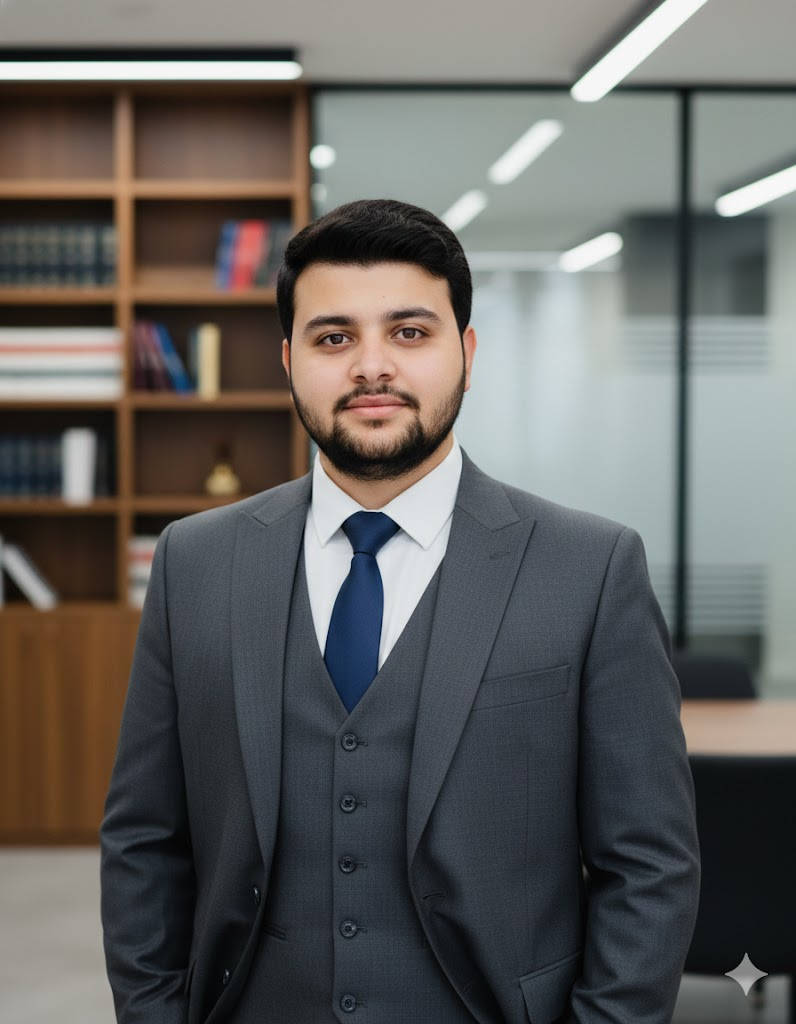
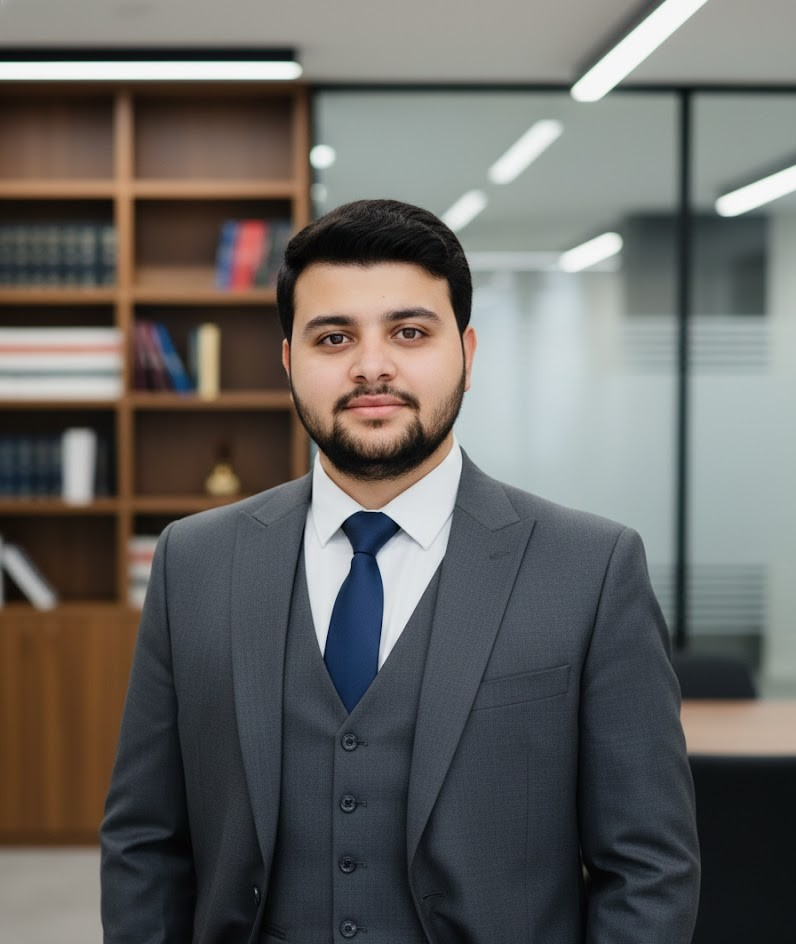
fix image paths and copy assets to public folder

diff --git a/src/components/ContactUs/page.jsx b/src/components/ContactUs/page.jsx
@@ -34,7 +34,7 @@ const ContactUs = () => {
               </div>
 
               {/* SERVICES OFFERED */}
-              <div className="bg-linear-to-br from-[#0b1c2d] via-[#12263a] to-[#1f3a5f] rounded-2xl p-6 shadow-lg">
+              <div className="bg-linear-to-br from-[#0b1c2d] via-[#12263a] to-[#1f3a5f] rounded-2xl p-6 shadow-lg hover:scale-105 hover:-translate-y-2 transition-all duration-300">
                 <h4 className="text-lg font-semibold text-yellow-400 mb-4">
                   Our Legal Services
                 </h4>
@@ -63,7 +63,7 @@ const ContactUs = () => {
               </div>
 
               {/* QUICK CONTACT CARD */}
-              <div className="bg-linear-to-br from-[#0b1c2d] via-[#12263a] to-[#1f3a5f] rounded-2xl p-6 text-white shadow-lg">
+              <div className="bg-linear-to-br from-[#0b1c2d] via-[#12263a] to-[#1f3a5f] rounded-2xl p-6 text-white shadow-lg hover:scale-105 hover:-translate-y-2 transition-all duration-300">
                 <h4 className="text-lg font-semibold mb-3 text-yellow-400">
                   Need Immediate Legal Assistance?
                 </h4>

diff --git a/src/components/Biography/page.jsx b/src/components/Biography/page.jsx
@@ -37,7 +37,7 @@ const Biography = () => {
           {/* Right Side - Image */}
           <div className="flex justify-center">
             <div className="relative">
-              <div className="w-80 h-[450px] md:w-[380px] md:h-[520px] hidden md:block rounded-3xl overflow-hidden shadow-xl bg-light">
+              <div className="w-80 h-[450px] md:w-[380px] md:h-[520px] hidden md:block rounded-3xl overflow-hidden shadow-xl bg-light hover:scale-105 hover:-translate-y-2 transition-all duration-300">
                 <img
                   src={content.biography['image-2'].src}
                   alt={content.biography['image-2'].alt}

diff --git a/src/components/PortfolioHero/Page.jsx b/src/components/PortfolioHero/Page.jsx
@@ -50,7 +50,7 @@ const Stat = ({ value, label }) => {
 
           {/* LEFT — IMAGE */}
           <div className="flex justify-center">
-            <div className="w-80 h-[500px] sm:w-96 sm:h-[600px] lg:w-[400px] lg:h-[650px] bg-image-gradient rounded-3xl overflow-hidden shadow-xl">
+            <div className="w-80 h-[500px] sm:w-96 sm:h-[600px] lg:w-[400px] lg:h-[650px] bg-image-gradient rounded-3xl overflow-hidden shadow-xl hover:scale-105 hover:-translate-y-2 transition-all duration-300">
               <img
                 src={content.hero.image.src}
                 alt={content.hero.image.alt}

diff --git a/src/components/PracticeAreas/page.jsx b/src/components/PracticeAreas/page.jsx
@@ -50,6 +50,7 @@ const PracticeAreas = () => {
                   shadow-md
                   hover:bg-slate-800
                   hover:shadow-2xl
+                  hover:scale-105 hover:-translate-y-2
                   transition-all duration-300
                   cursor-pointer
                   group
